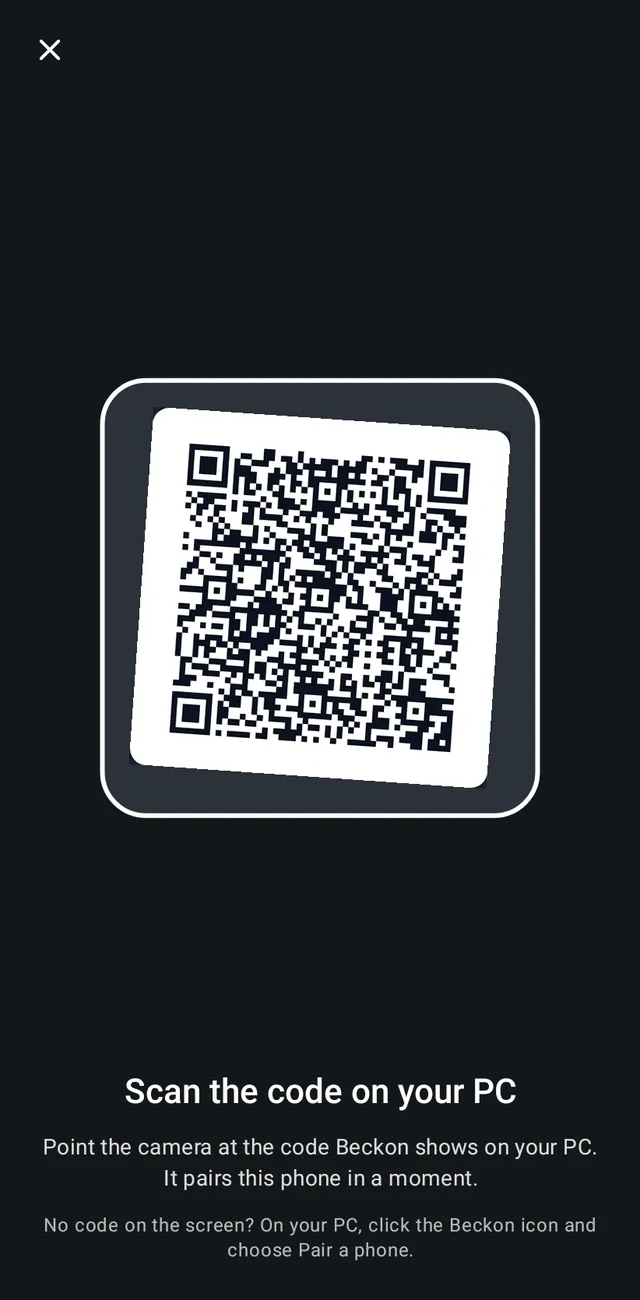
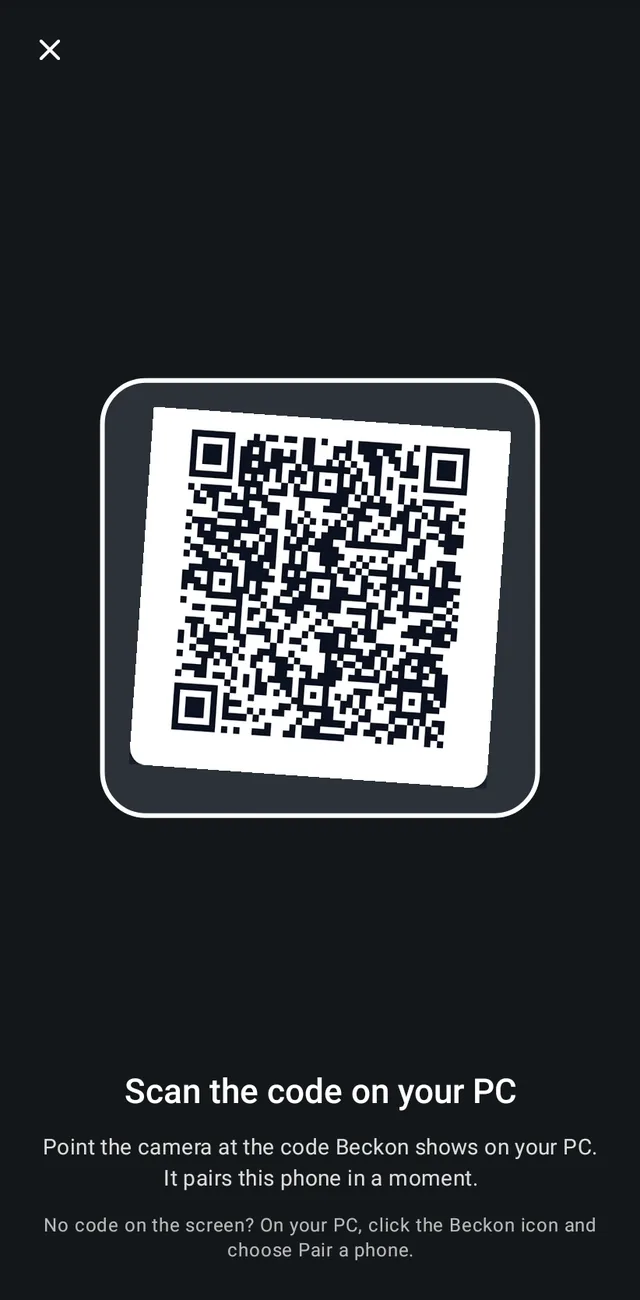
Regenerate the PC page picture with the Beckon name
The picture still said Telepad. Made with docs/brand/pc-page.sh and
website/tools/build_images.py, which also redraws the scanner screen's QR code.
The capture is now 865 px tall so it ends where the website's frame does, with
the picture's height in index.html to match.

Changed region(s): [[0.25, 0.3077, 0.75, 0.5846]]

diff --git a/website/index.html b/website/index.html
@@ -157,7 +157,7 @@
             <div class="step-art step-shot">
               <picture>
                 <source srcset="assets/img/screens/pc-page.avif" type="image/avif">
-                <img src="assets/img/screens/pc-page.webp" width="640" height="1120" alt="Beckon’s page on the PC: the title Pair a phone, a QR code and the steps to scan it." loading="lazy" decoding="async">
+                <img src="assets/img/screens/pc-page.webp" width="640" height="989" alt="Beckon’s page on the PC: the title Pair a phone, a QR code and the steps to scan it." loading="lazy" decoding="async">
               </picture>
             </div>
             <span class="step-n">1</span>
